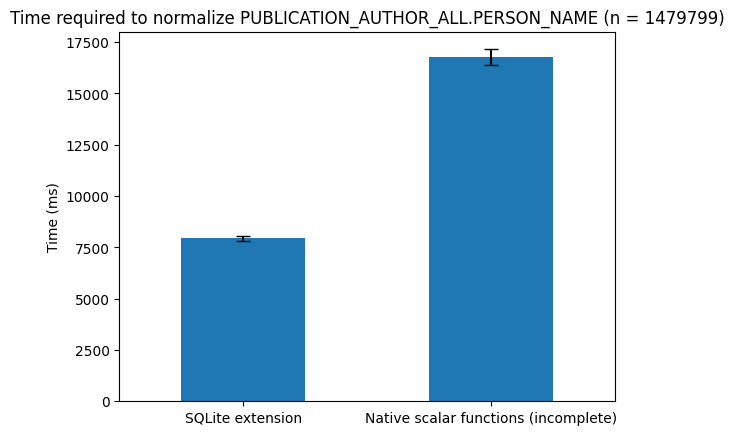
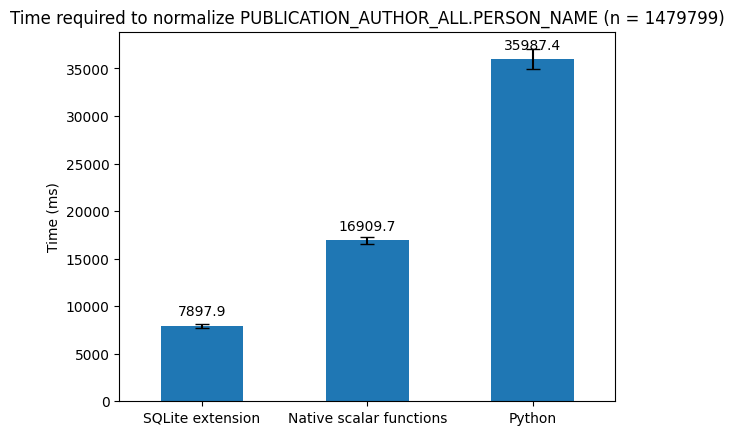
feat: add the Python inference results + hierarchical clustering

diff --git a/en/chap02.tex b/en/chap02.tex
@@ -86,21 +86,12 @@ With the most naive approach, the transformation of the relational data model in
 \texttt{PERSON} and (deduplicated) \texttt{PUBLICATION\_KEYWORDS} views into the nodes of the graph, 
 and the records of the \texttt{PUBLICATION\_AUTHOR\_ALL} view into the edges of the graph.
 
-\section{Transformation}
+\section{Inferring missing identities}
 
 In the \hyperref[sec:pub-author-all]{comment} for the \texttt{PUBLICATION\_AUTHOR\_ALL.PERSON\_ID} column, we note that the UKČO personal number is not always available.
 This is because of external authors, who are not affiliated with the university and do not have a UKČO personal number.
 What is worse, such authors are only identified by their name and academic titles, which can be inconsistent across the publications.
 This is again caused by the technical limitations of the source systems, as the interoperability between the \textit{OBD} and \textit{Studium} modules is limited.
-
-This poses a challenge for the transformation of the relational data model into a graph data model, as we need to come up 
-with a way to identify the external authors and link them to the publications.
-
-\subsection{Inferring missing identities}
-
-As mentioned above, the available relational data model is unfit for a direct transformation into a graph data model.
-This is because the data about the external authors is incomplete and inconsistent, which might cause some of the authors
-to be represented by multiple nodes in the graph.
 
 Aside from the obvious implications of this issue - i.e. user confusion and potential performance issues,
 this also poses a challenge for the social network analysis, as the graph algorithms might not be able 
@@ -123,7 +114,9 @@ In the aforementioned \texttt{PUBLICATION\_AUTHOR\_ALL} view, counts of the rela
 We see that the no-identifier authors take up to 45\% of the total count of the relations.
 This explains the importance of the problem of inferring the missing identities.
 
-\subsubsection{Naïve approach}
+\newpage
+
+\subsection{Naïve approach}\label{sec:naive-approach}
 
 The naïve solution to this problem is using the \textit{names} for the identity inference 
 in case of missing identifiers.
@@ -196,23 +189,24 @@ we can proceed with the merging of the records using SQL GROUP BY and the aggreg
 \textbf{Implementation}
 
 For the implemetation of the name normalization function, we use the SQLite loadable extensions mechanism.
-The string transformation itself is done in three steps:
+The transformation itself is done in three steps:
 
 \begin{enumerate}
     \item Using the \texttt{glib} function \texttt{g\_utf8\_normalize}, the string representation of the name is normalized to the canonical Unicode NFD form.
-    This performs the Unicode decomposition of the diacritized letters and other characters. This step ensures that the byte representation of diacritized 
-    characters is now composed of separate characters for the base character and the diacritics (e.g. \texttt{ě}\texttt{(U+011B)} is decomposed to \texttt{e}\texttt{(U+0065)} and \texttt{ˇ}\texttt{(U+02C7)}).
+    This step ensures that the byte representation of diacritized characters is now composed of separate characters for the base character and the diacritics (e.g. \texttt{ě}\texttt{(U+011B)} is decomposed to \texttt{e}\texttt{(U+0065)} and \texttt{ˇ}\texttt{(U+02C7)}).
     \item We scan the normalized string and remove all the characters that are not in the range of the Latin alphabet. We convert the all the 
     alphabetic characters to lowercase and replace all the whitespace characters with a single space.
     \item Using regular expressions, we remove the academic titles from the name. 
     We construct the expression by defining a list of the academic titles and concatenating them using the alternative separator \texttt{|} (e.g. \texttt{PhDr.|Ph.D.}).
-    We then use the constructed regular expression to find the start index of the actual person name in the normalized string
+    We then use this regex to find the start index of the actual person name in the string
     and use the \texttt{glib} function \texttt{g\_strndup} to extract the substring.
 \end{enumerate}
 
-The full implementation of the normalization function is available in the GitHub repository of this thesis\footnote{\url{https://github.com/barjin/master-thesis/tree/main/examples/sqlite-normalize-name}}.
+The full implementation of the normalization function is available in the GitHub repository of this thesis.\footnote{\url{https://github.com/barjin/master-thesis/tree/main/examples/sqlite-normalize-ext}}.
 
-\newpage
+For reference purposes, we also implement the same normalization function using Python.
+This implementation loads the data from the database, normalizes the names using a Python function, and writes the normalized names into a new table.
+The implementation can also be found in the GitHub repository\footnote{\url{https://github.com/barjin/master-thesis/tree/main/examples/sqlite-normalize-python}}.
 
 \textbf{Performance}
 
@@ -232,9 +226,9 @@ CREATE TABLE test AS
 \end{figure}
 
 SQLite engine has a default limit on the maximum expression tree depth of 1000\footnote{\url{https://www.sqlite.org/limits.html\#max_expr_depth}}.
-This is relatively easy to hit with the composed scalar functions, as the repeated nested calls to the \texttt{replace} function can quickly add up.
+This limit is quite low and can be easily reached when using the composed scalar functions.
 
-Because of this limitation, we are not replacing all of the academic titles in the composed scalar functions case of the experiment.
+Because of this limitation, we are not replacing all of the academic titles in the \textit{composed scalar functions} case of the experiment.
 Even with the reduced number of operations, the composed scalar functions seem to be much slower than the SQLite extension:
 
 \begin{figure}[ht!]
@@ -243,6 +237,11 @@ Even with the reduced number of operations, the composed scalar functions seem t
     \centering
     \caption{The performance comparison of the SQLite extension and the composed scalar functions (mean over 10 runs).}
 \end{figure}
+
+The Python reference implementation is expectedly much slower than both the SQLite extension and the composed scalar functions.
+This is likely caused by the interface read-write overhead of the Python \texttt{sqlite3} library - as compared to the native data access of the SQLite extension.
+
+\textbf{Results assessment}\label{sec:results-assessment}
 
 After the normalization and aggregating the records using the normalized names,
 we get \texttt{240001} distinct normalized names in the dataset.
@@ -254,29 +253,73 @@ compared to the internal authors with known identifiers.
 
 \textbf{Issues with the naïve approach}
 
-While the naïve approach is simple and straightforward, it also has logical drawbacks.
+While the naïve approach is simple and straightforward, it poses several issues.
 
-In the current state, there is no support for the existing identifiers from the dataset.
+Firstly, name-based merging can be problematic in the case of the authors with common names, as likely seen in the \hyperref[sec:results-assessment]{results assessment}.
+
+Secondly, there is no support for the existing identifiers from the dataset.
 By only inferring the identifier from the name, we willingly discard the existing information about the person.
 
-This could be partially solved by concatenating the inferred identifier with the existing one. 
-However, such approach would only fully work in the case of the external authors.
-In the case of the internal authors with few records with missing identifiers (e.g. \hyperref[fig:jaroslav-peska]{Jaroslav Peška}),
-this would still result in the creation of multiple nodes for the same person (e.g. \texttt{14124313-jaroslav-peska} and \texttt{null-jaroslav-peska}).
+This could be partially solved by coalescing the inferred identifiers with the existing ones.
+Using the SQL \texttt{COALESCE} function, we can create a new column in the \texttt{PUBLICATION\_AUTHOR\_ALL} view that would contain the inferred identifier only if the original one is missing.
 
-\subsubsection{(Distance-based) hierarchical clustering}
+However, such approach would only fully work in the case of only internal - or only external authors.
+In the case of the internal authors with few records with missing identifiers (e.g. \hyperref[fig:jaroslav-peska]{Jaroslav Peška}),
+this would still result in the creation of up to two nodes for the same person (i.e. \texttt{14124313...} for the ``internal'' records and \texttt{jaroslav-peska} for the ``external'' ones).
+
+\begin{mybox}{``On-demand'' naïve identity inference}
+
+To solve the over-merging issue of the authors with common names in the naïve approach, we can slightly modify it.
+
+Instead of merging the records directly in the database, we can merge the records on-demand in the application's visualization layer.
+If we e.g. restrict the direct views only to internal authors - and show the external authors only as collaborators of those,
+we can reuse the naïve approach quite effectively.
+
+By restricting the domain of the mergeable records to a smaller, tighter subcomunity of the graph (i.e. collaborators of one internal author), 
+we can reduce the number of the possible false positives in the merging.
+
+Obviously, this approach still carries the risk of the false positives in case of different external authors with the same name in the same subcommunity.
+
+Also note that this approach only improves the user experience with the application.
+Using this, every external author's coauthorship is stored as a separate node in the graph, which can negatively impact the performance of the graph algorithms.
+\end{mybox}
+
+
+\subsection{Distance-based hierarchical clustering}
 
 To solve the issues of the naïve approach, we can try to use the graph structure of the data to infer the missing identities.
 One of the possible approaches is to use the \textit{hierarchical clustering} methods to group the nodes with similar attributes together.
 
-\subsubsection{Embedding-based clustering}
+In the realm of data mining and statistics, \textit{hierarchical clustering} is an umbrella term for a set of unsupervised learning algorithms for grouping
+given data points into a hierarchy of clusters. Typically, these algorithms iteratively merge the closest clusters together, until only one cluster remains.\footnote{In case of top-down clustering, the process is reversed.}
+The distance metric used for the clustering can be any metric that defines the similarity between the data points.
 
-Another approach to the problem of inferring the missing identities is to use the \textit{embedding-based clustering} methods.
+In the case of our dataset, we can use the shortest path distance between the nodes in the graph as the distance metric.
 
-The idea behind the embedding-based clustering is to project the nodes of the graph into a lower-dimensional space, where the nodes with similar attributes are close together.
+We define the merging process as follows:
 
-The graph database Memgraph\footnote{\url{https://memgraph.com/}} offers a built-in implementation of the \textit{node2vec} algorithm\footnote{\url{https://snap.stanford.edu/node2vec/}}.
-We can use this to project the nodes of the graph into a 2D space and then use the clustering algorithms to group the nodes with similar attributes (and same normalized names) together.
+\begin{enumerate}
+    \item Start with a graph with nodes only merged based on explicit identifiers. \texttt{PUBLICATION\_AUTHOR\_ALL} records without an explicit identifier are represented as separate nodes.
+    \item Select an arbitrary unmerged node without an identifier.
+    \begin{itemize}
+        \item Using the \hyperref[sec:naive-approach]{naïve approach}, we find all merge candidates for the selected node. Note that we are using the normalized name equality as the requirement for the merge.
+        \item We calculate the distance matrix between the selected node and all the merge candidates.
+        \item Using a hierarchical clustering algorithm, we cluster the data points based on the distance matrix. We select the cut-off distance based on the distance distribution.
+    \end{itemize}
+    \item Go to step 2 until all the non-identifier nodes are merged.
+\end{enumerate}
+
+
+% \newpage
+
+% \subsubsection{Embedding-based clustering}
+
+% Another approach to the problem of inferring the missing identities is to use the \textit{embedding-based clustering} methods.
+
+% The idea behind the embedding-based clustering is to project the nodes of the graph into a lower-dimensional space, where the nodes with similar attributes are close together.
+
+% The graph database Memgraph\footnote{\url{https://memgraph.com/}} offers a built-in implementation of the \textit{node2vec} algorithm\footnote{\url{https://snap.stanford.edu/node2vec/}}.
+% We can use this to project the nodes of the graph into a 2D space and then use the clustering algorithms to group the nodes with similar attributes (and same normalized names) together.
 
 
 % \section{Inferring missing data}

diff --git a/en/thesis.tex b/en/thesis.tex
@@ -55,6 +55,7 @@
 \usepackage[T1]{fontenc}	% font encoding
 \usepackage[most]{tcolorbox}
 \usepackage{fancyvrb}
+\usepackage{relsize}
 
 \newcommand\verbbf[1]{\textbf{#1}}
 \newcommand\verbun[1]{\underline{#1}}
@@ -127,6 +128,8 @@ In the conclusion we address some issues we've encountered during the developmen
 % Title page and various mandatory informational pages
 \begin{document}
 \include{title}
+
+\renewcommand*{\UrlFont}{\smaller\relax}
 
 %%% A page with automatically generated table of contents of the master thesis
 
